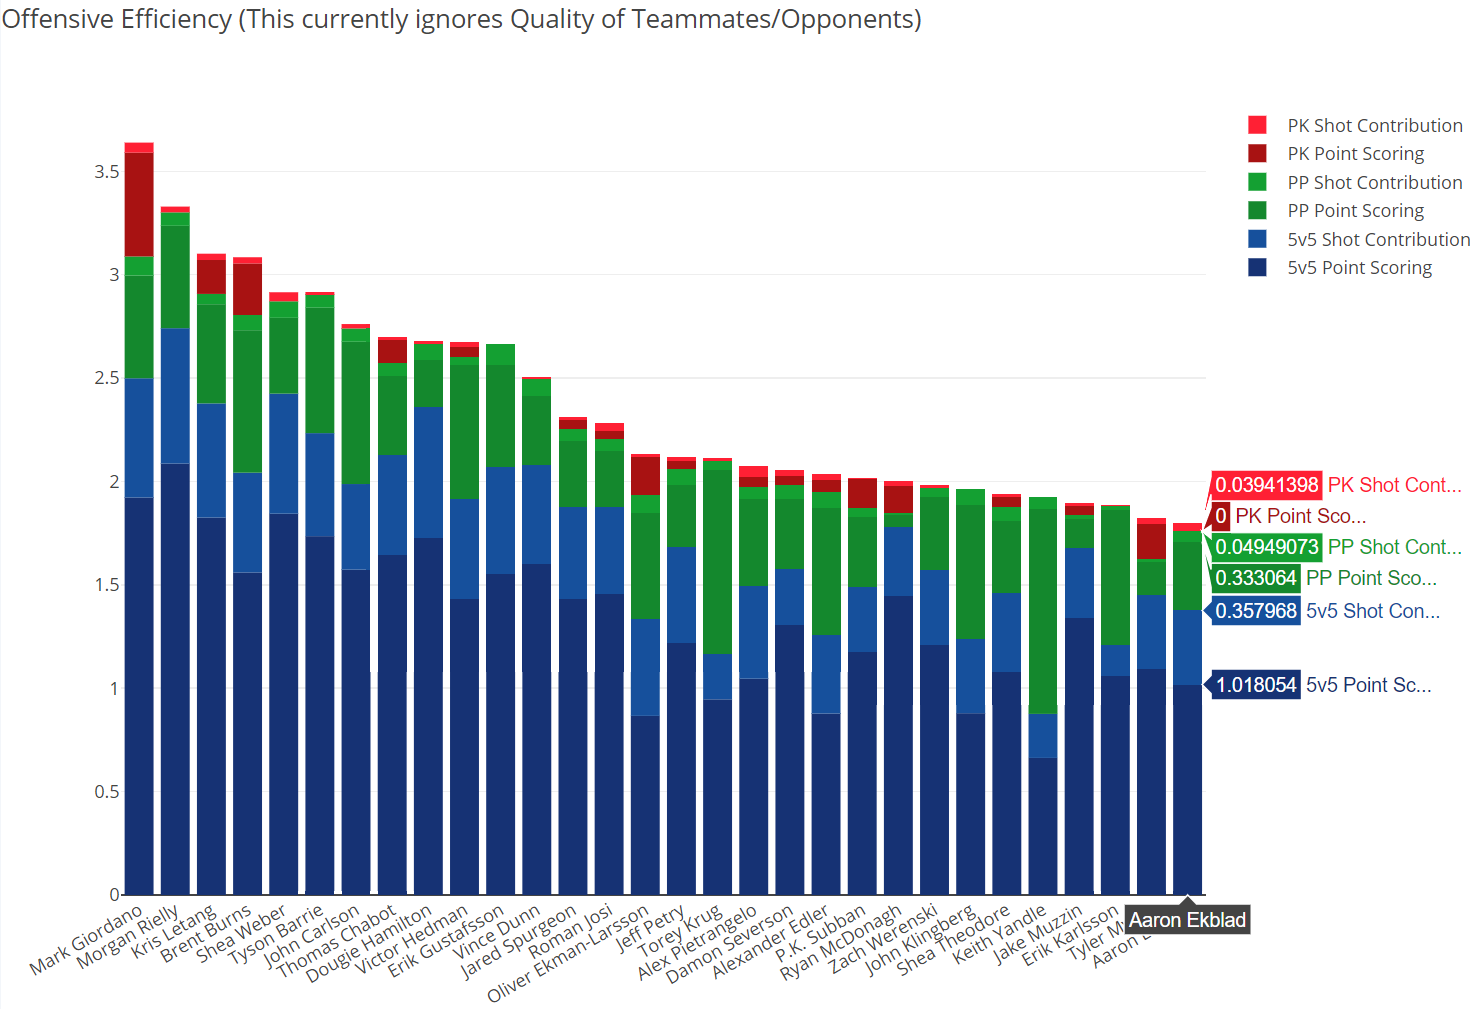
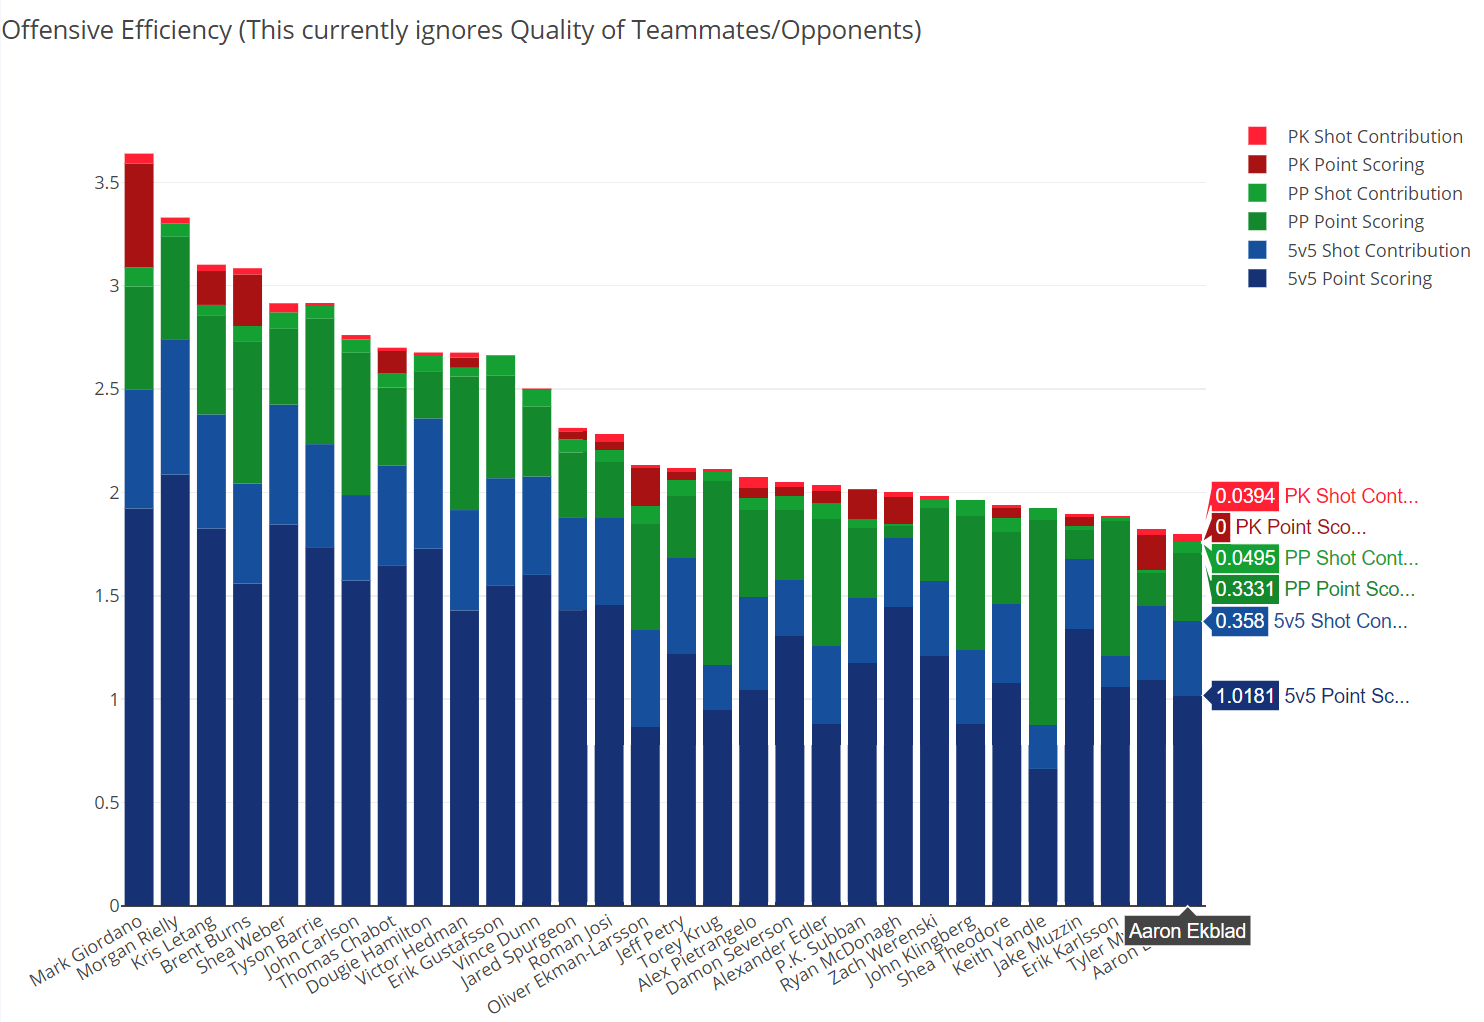
Updated Picture + hover text
Formatted the hover text to be 4 decimals to be readable.

diff --git a/HockeyStatsModel.py b/HockeyStatsModel.py
@@ -171,17 +171,17 @@ def processData():
         if (limit > count and s.toiALL > 1200 and s.position == "D"):
             nameList.append(s.name)
             toiAllList.append(s.toiALL)
-            evOffenceRatingList.append(s.evOffensiveRating)
-            ppOffenceRatingList.append(s.ppOffensiveRating)
-            pkOffenceRatingList.append(s.pkOffensiveRating)
+            evOffenceRatingList.append("{0:.4f}".format(s.evOffensiveRating))
+            ppOffenceRatingList.append("{0:.4f}".format(s.ppOffensiveRating))
+            pkOffenceRatingList.append("{0:.4f}".format(s.pkOffensiveRating))
 
-            evShotsRatingList.append(s.evShotsRating)
-            ppShotsRatingList.append(s.ppShotsRating)
-            pkShotsRatingList.append(s.pkShotsRating)
+            evShotsRatingList.append("{0:.4f}".format(s.evShotsRating))
+            ppShotsRatingList.append("{0:.4f}".format(s.ppShotsRating))
+            pkShotsRatingList.append("{0:.4f}".format(s.pkShotsRating))
 
-            evPointsRatingList.append(s.evPointsRating)
-            ppPointsRatingList.append(s.ppPointsRating)
-            pkPointsRatingList.append(s.pkPointsRating)
+            evPointsRatingList.append("{0:.4f}".format(s.evPointsRating))
+            ppPointsRatingList.append("{0:.4f}".format(s.ppPointsRating))
+            pkPointsRatingList.append("{0:.4f}".format(s.pkPointsRating))
             count += 1
             print(s)
 
